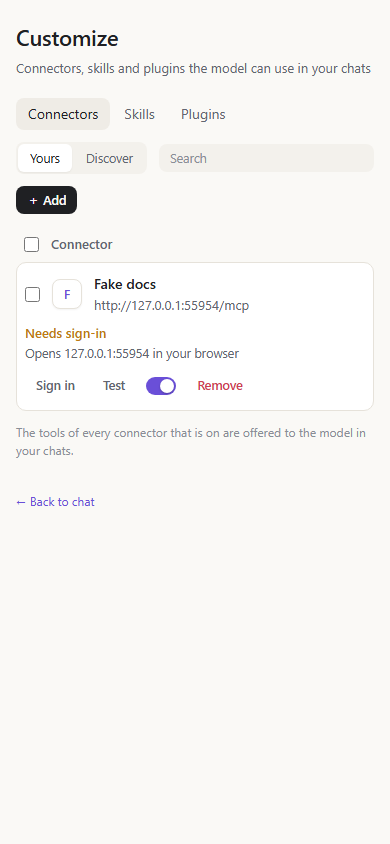
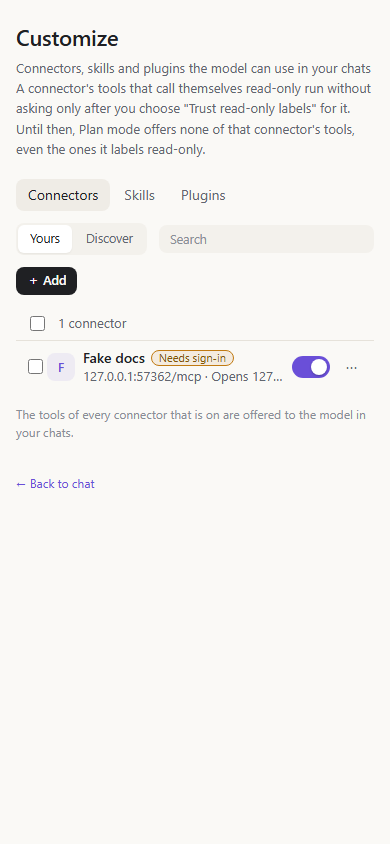
L-1 spec: measure the first visible lead (the engine notice before it is hidden)

Changed region(s): [[0.0308, 0.0924, 0.9538, 0.6161], [0.1846, 0.5545, 0.2462, 0.6161], [0.4308, 0.2773, 0.5231, 0.3081]]

diff --git a/e2e/l1-layout.spec.js b/e2e/l1-layout.spec.js
@@ -52,7 +52,7 @@ test('Code → Permission rules: one left edge for the heading, the text, the sw
   await page.waitForTimeout(600);
   const lefts = await page.evaluate(() => {
     const q = (sel) => { const el = document.querySelector(sel); return el ? Math.round(el.getBoundingClientRect().left) : null; };
-    return { h3: q('#perm-rules h3'), lead: q('#perm-rules .lead'), tabs: q('#perm-rules .tabs2'), lists: q('#rules-lists .rl') ?? q('#rules-lists'), add: q('#rules-add'), tryBox: q('#rules-try-box'), card: q('#perm-rules').parentElement ? Math.round(document.querySelector('#perm-rules').parentElement.getBoundingClientRect().left) : null };
+    return { h3: q('#perm-rules h3'), lead: q('#perm-rules .lead:not([hidden])'), tabs: q('#perm-rules .tabs2'), lists: q('#rules-lists .rl') ?? q('#rules-lists'), add: q('#rules-add'), tryBox: q('#rules-try-box'), card: q('#perm-rules').parentElement ? Math.round(document.querySelector('#perm-rules').parentElement.getBoundingClientRect().left) : null };
   });
   const edges = [lefts.h3, lefts.lead, lefts.tabs, lefts.add, lefts.tryBox].filter((x) => x !== null);
   expect(Math.max(...edges) - Math.min(...edges)).toBeLessThanOrEqual(1);
